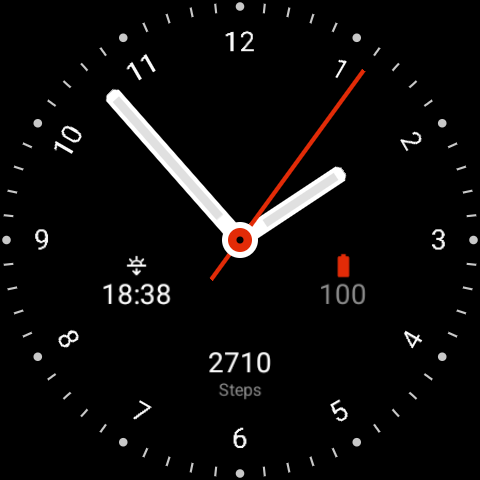
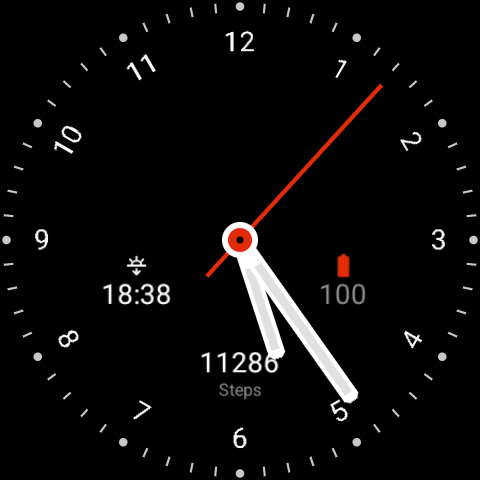
docs: POC status in CLAUDE.md and handoff, refreshed end-to-end screenshots

Changed region(s): [[0.2188, 0.1562, 0.7812, 0.8438], [0.7812, 0.1562, 0.8125, 0.1875], [0.75, 0.125, 0.7812, 0.1562]]

diff --git a/docs/handoff/2026-10-08-builder-session.md b/docs/handoff/2026-10-08-builder-session.md
@@ -6,7 +6,7 @@ Everything a new session needs to continue. Read `CLAUDE.md` first, then this, t
 
 - **Direction decided:** build a **paid (£4.99) phone app + watch app** that lets users build their own Wear OS 6 face with free values (any hex colour, numbers), movable complication slots, ring complications and photo backgrounds. The phone generates and signs the face; Watch Face Push puts it on the watch.
 - **Spec:** `docs/superpowers/specs/2026-10-08-builder-app-design.md` (draft, effectively approved for the POC).
-- **Plan:** `docs/superpowers/plans/2026-10-08-builder-poc.md` (10 tasks, written and committed, **not started**). The owner was asked to review it and reply "go". On "go": do Task 1 (scaffold) inline, then dispatch Sonnet implementers in parallel worktrees per the global `CLAUDE.md` flow, read every diff, merge to `main`, delete worktrees.
+- **Plan:** `docs/superpowers/plans/2026-10-08-builder-poc.md` (10 tasks). **Update 2026-10-08 (later): implemented and merged to `main`, not pushed.** Run and test it with `docs/poc/README.md`; test map in `docs/superpowers/scenarios/`. Not verified on real devices: the Data Layer transfer (the emulators cannot be paired), ring data/text with real providers, always-on look. Decisions made during the run: no bundled default face on the watch (phone-only), QR show+scan added, Light template dropped with ambient inversion for dark designs, ring defaults battery + steps (text), ring gaps centred on the start angle. Finding: uninstalling the watch app leaves the pushed face installed. The owner was asked to review it and reply "go". On "go": do Task 1 (scaffold) inline, then dispatch Sonnet implementers in parallel worktrees per the global `CLAUDE.md` flow, read every diff, merge to `main`, delete worktrees.
 - **On hold:** `docs/superpowers/specs/2026-10-08-configurable-watchface-design.md` (code-free face with fixed options). It is the fallback if the builder cannot ship.
 - **Original face:** `app/` (+ `tools/*.py`, `tests/`) is the working code-free Analog Plus face. Do not break it; the Python generators are the reference for geometry.
 

diff --git a/CLAUDE.md b/CLAUDE.md
@@ -9,7 +9,7 @@ face (Google `pack`) and pushes it with Watch Face Push (Wear OS 6 only).
 
 1. `docs/handoff/2026-10-08-builder-session.md` — decisions, spike findings, gotchas, current state, owner preferences
 2. `docs/superpowers/specs/2026-10-08-builder-app-design.md` — the builder design
-3. `docs/superpowers/plans/2026-10-08-builder-poc.md` — the POC plan (10 tasks; **not started**, waits for the owner's "go")
+3. `docs/superpowers/plans/2026-10-08-builder-poc.md` — the POC plan (10 tasks; **implemented and merged to `main` on 2026-10-08, not pushed**; how to run and test it: `docs/poc/README.md`; test map: `docs/superpowers/scenarios/2026-10-08-builder-poc-user-scenarios.md`)
 4. `docs/research/Customizable Wear OS watch face market.md` — market verdict (small, time-boxed bet)
 5. `docs/superpowers/specs/2026-10-08-configurable-watchface-design.md` — ON HOLD fallback (code-free face with fixed options)
 
@@ -20,6 +20,7 @@ face (Google `pack`) and pushes it with Watch Face Push (Wear OS 6 only).
 - Max 8 complication slots in total (ring segments count). Colours are `#AARRGGBB`. Clamp ranged values.
 - Push library needs AGP 8.9.1+/Gradle 8.11.1. Validator library needs phone minSdk 28.
 - Gradle file watching misses edits under `/private/tmp` (stale builds). Check the APK is newer than the source.
+- Uninstalling the watch app does NOT remove the pushed face (`com.seyedjafari.analogplus.watchfacepush.analog`); remove it with `adb shell pm uninstall com.seyedjafari.analogplus.watchfacepush.analog`. The phone-to-watch Data Layer transfer has never run on paired devices (emulators cannot be paired without a Google sign-in).
 - The real watch (SM-L315F) is on wireless debugging and drops often; emulators are not paired with each other.
 - The owner's watch still has the spike test app and test face installed; ask before removing (see handoff).
 
